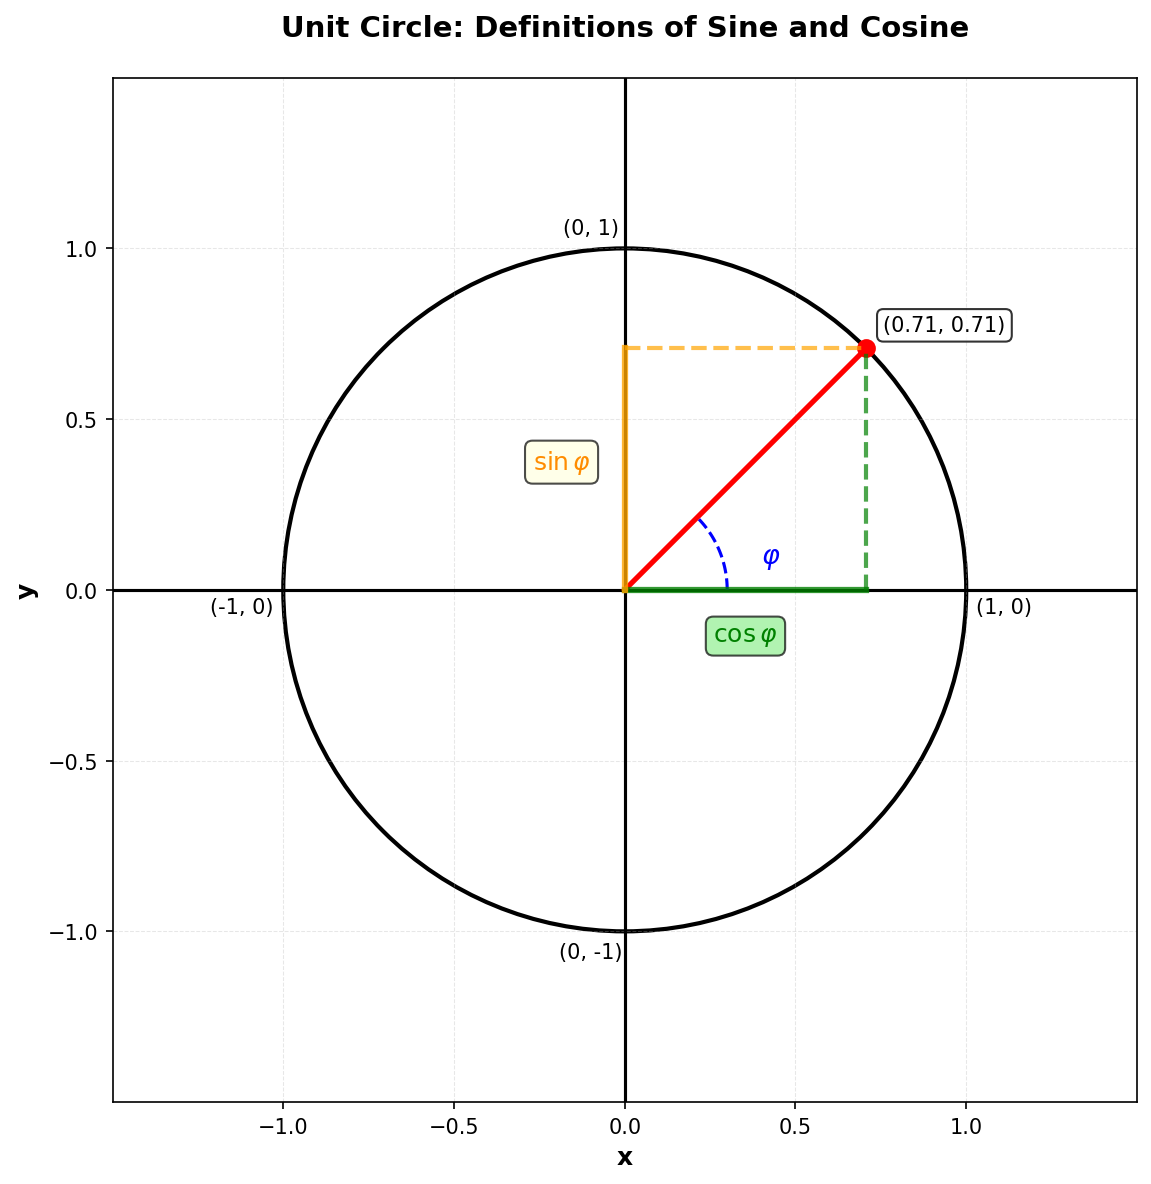
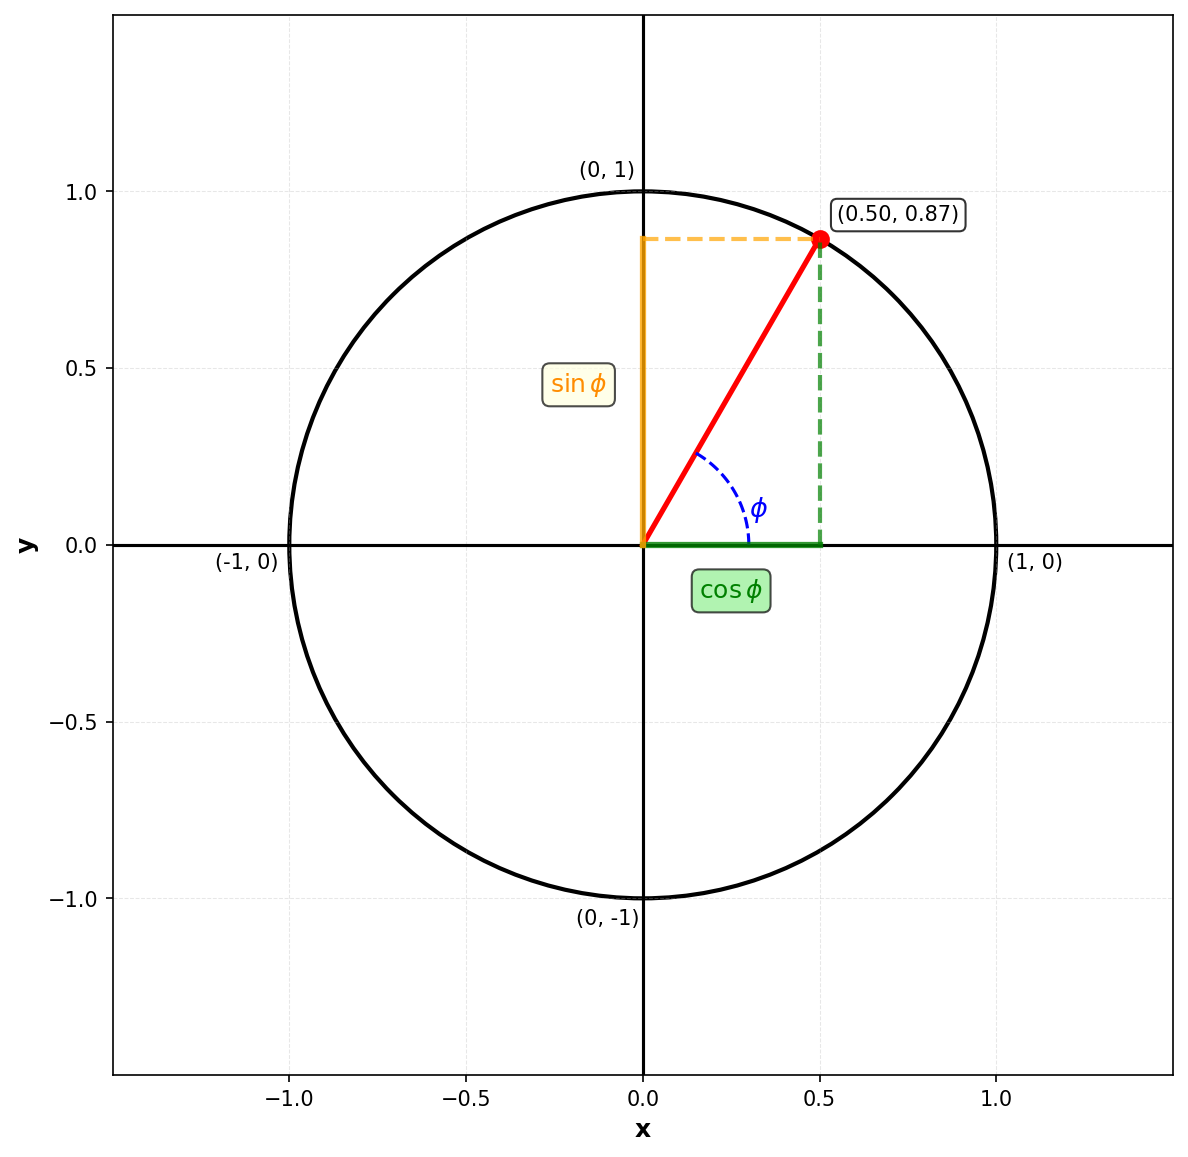
Tweaked unit circle diagram

diff --git a/resources/unit_circle.py b/resources/unit_circle.py
@@ -20,14 +20,13 @@ ax.axvline(x=0, color='k', linewidth=1.5)
 # Add axis labels
 ax.set_xlabel('x', fontsize=12, fontweight='bold')
 ax.set_ylabel('y', fontsize=12, fontweight='bold')
-ax.set_title('Unit Circle: Definitions of Sine and Cosine', fontsize=14, fontweight='bold', pad=20)
 
 # Draw unit circle
 circle = patches.Circle((0, 0), 1, linewidth=2, edgecolor='black', facecolor='none')
 ax.add_patch(circle)
 
-# Angle φ = 45 degrees = π/4 radians
-phi = np.pi / 4
+# Angle φ = 60 degrees = π/3 radians
+phi = np.pi / 3
 x = np.cos(phi)
 y = np.sin(phi)
 
@@ -39,18 +38,18 @@ ax.plot(x, y, 'ro', markersize=8)
 arc_angles = np.linspace(0, phi, 50)
 arc_r = 0.3
 ax.plot(arc_r * np.cos(arc_angles), arc_r * np.sin(arc_angles), 'b--', linewidth=1.5)
-ax.text(0.4, 0.08, r'$\varphi$', fontsize=13, color='blue', fontweight='bold')
+ax.text(0.3, 0.08, r'$\phi$', fontsize=13, color='blue', fontweight='bold')
 
 # Draw cos φ projection (horizontal)
 ax.plot([x, x], [0, y], 'g--', linewidth=2, alpha=0.7)
 ax.plot([0, x], [0, 0], 'g-', linewidth=3, alpha=0.8)
-ax.text(x/2, -0.15, r'$\cos \varphi$', fontsize=12, color='green', fontweight='bold', 
+ax.text(x/2, -0.15, r'$\cos \phi$', fontsize=12, color='green', fontweight='bold', 
         ha='center', bbox=dict(boxstyle='round', facecolor='lightgreen', alpha=0.7))
 
 # Draw sin φ projection (vertical)
 ax.plot([0, 0], [0, y], 'orange', linewidth=3, alpha=0.8)
 ax.plot([0, x], [y, y], color='orange', linestyle='--', linewidth=2, alpha=0.7)
-ax.text(-0.1, y/2, r'$\sin \varphi$', fontsize=12, color='darkorange', fontweight='bold',
+ax.text(-0.1, y/2, r'$\sin \phi$', fontsize=12, color='darkorange', fontweight='bold',
         ha='right', bbox=dict(boxstyle='round', facecolor='lightyellow', alpha=0.7))
 
 # Label the point on the circle